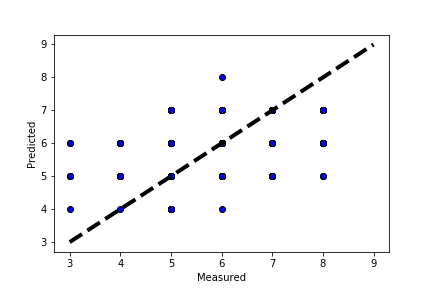
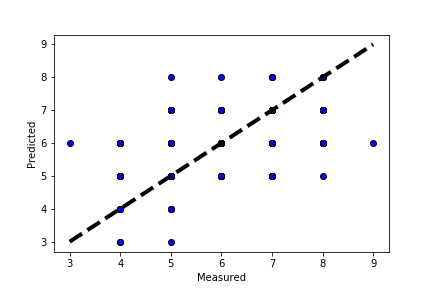
Tried Normalizing

diff --git a/main.py b/main.py
@@ -2,6 +2,7 @@ import LinearRegression
 import SupportVectorRegression
 from  Neural import neural_network
 import numpy as np
+from sklearn import preprocessing
 from SharedFunctions import load_data_from_csv_file, determine_features_to_use
 
 
@@ -35,6 +36,10 @@ def main():
     X = np.array(X)
     X = X[:, :, 0].T
     y = np.array([data[i][11] for i in range(len(data))])
+    
+   # scaler = preprocessing.StandardScaler().fit(X)
+   # X = scaler.transform(X)
+  #  print (X.mean(axis=0))
 
     print('x data', X.shape, ' y data', y.shape)
     linear_regression(X, y)
